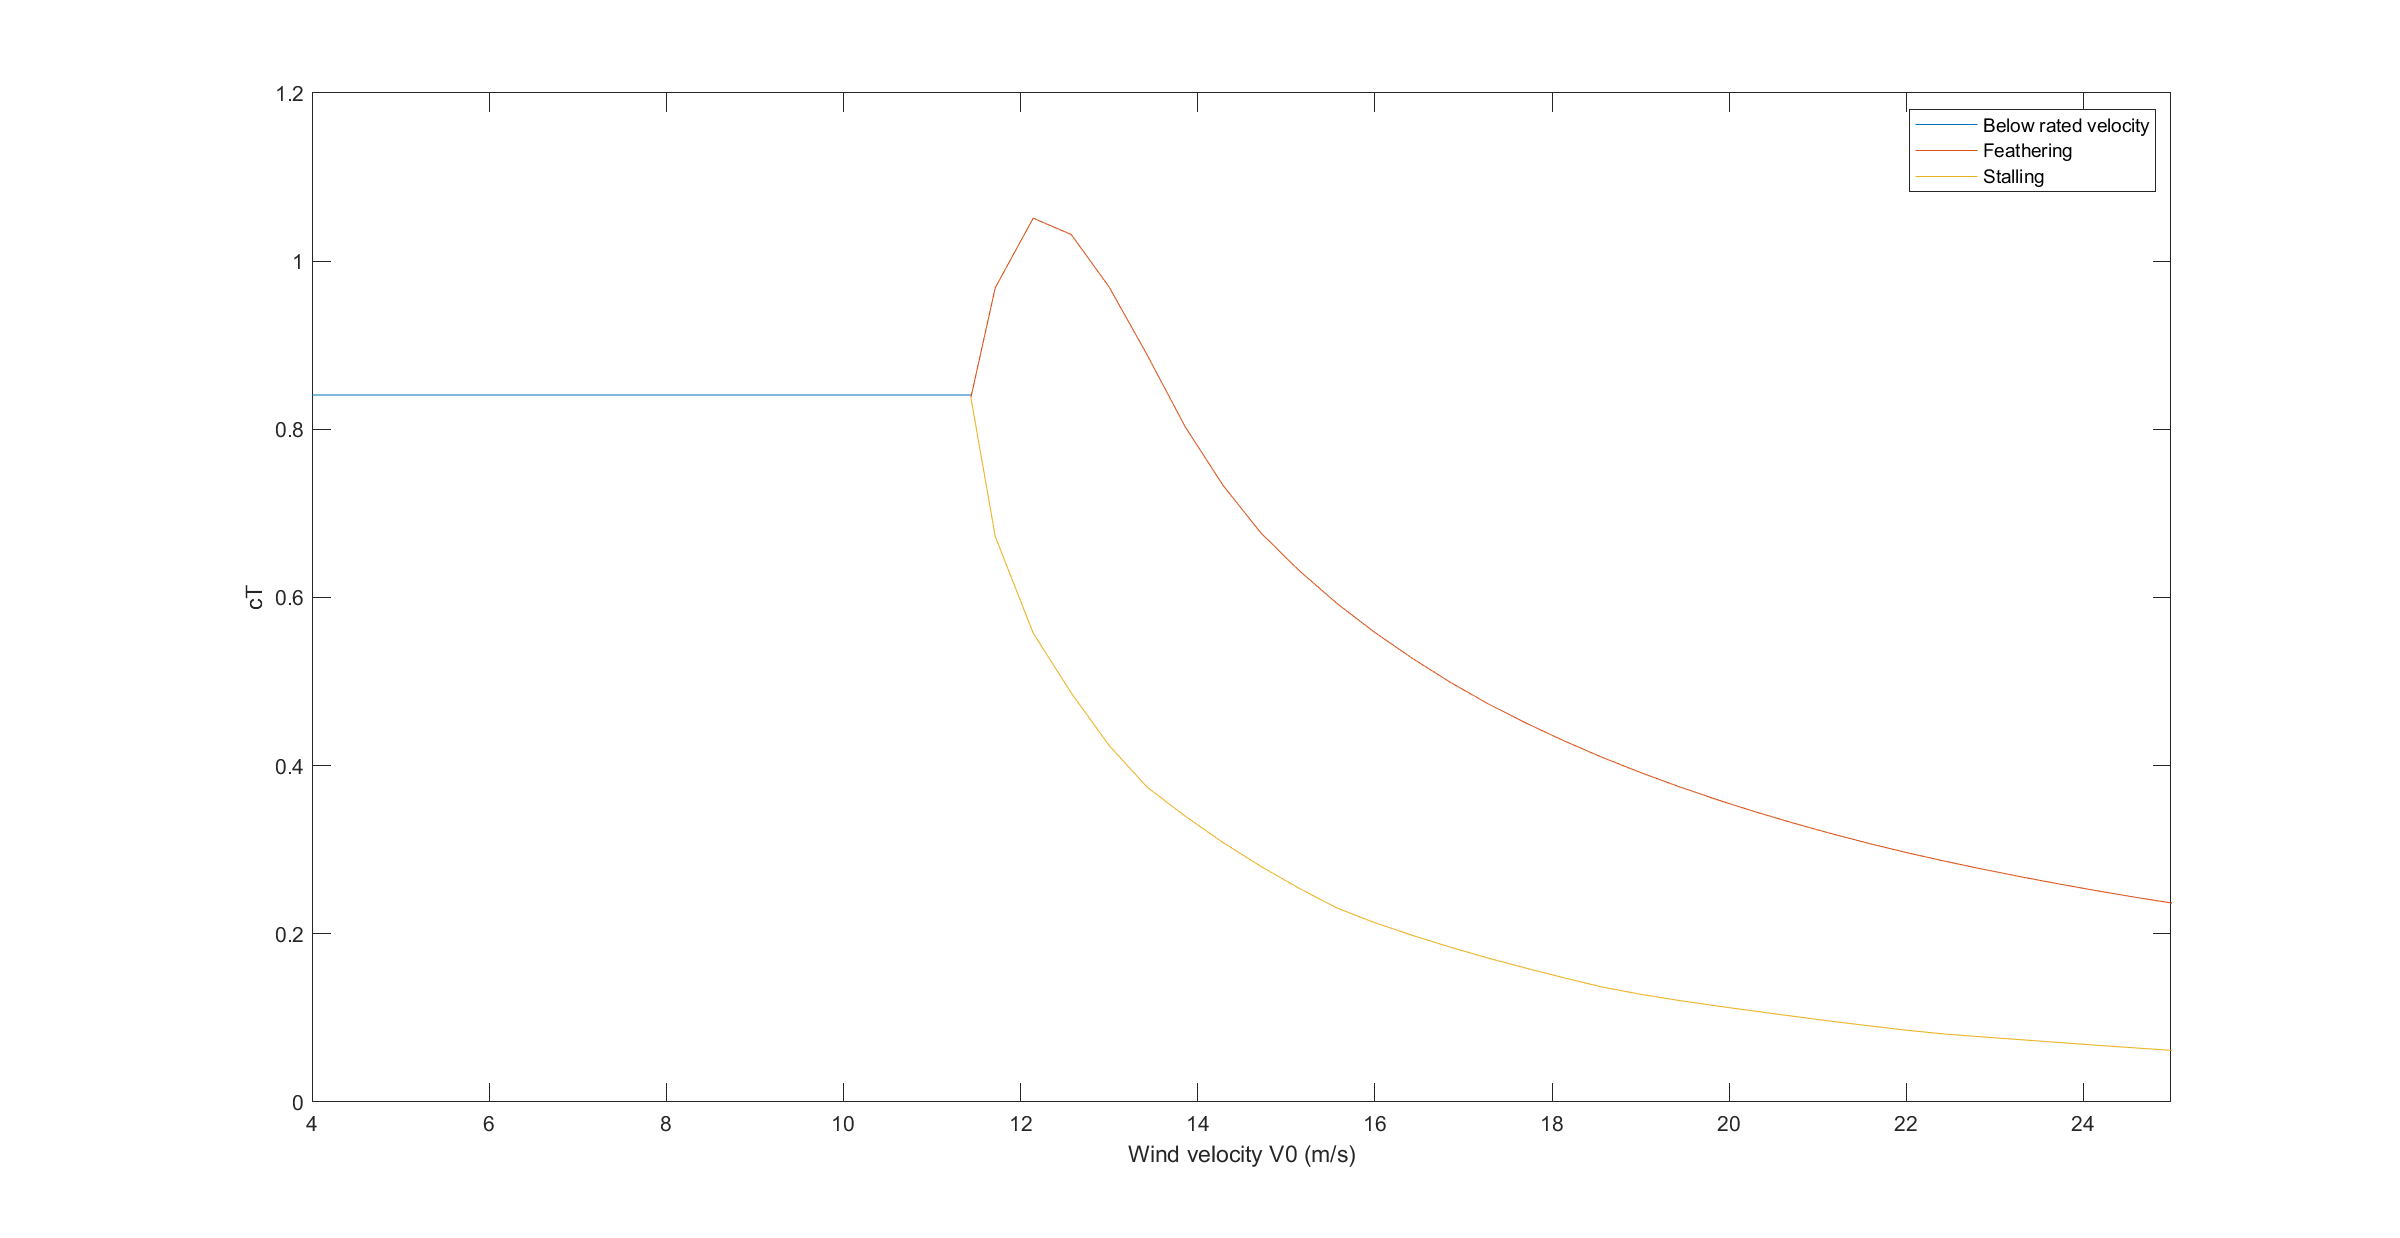
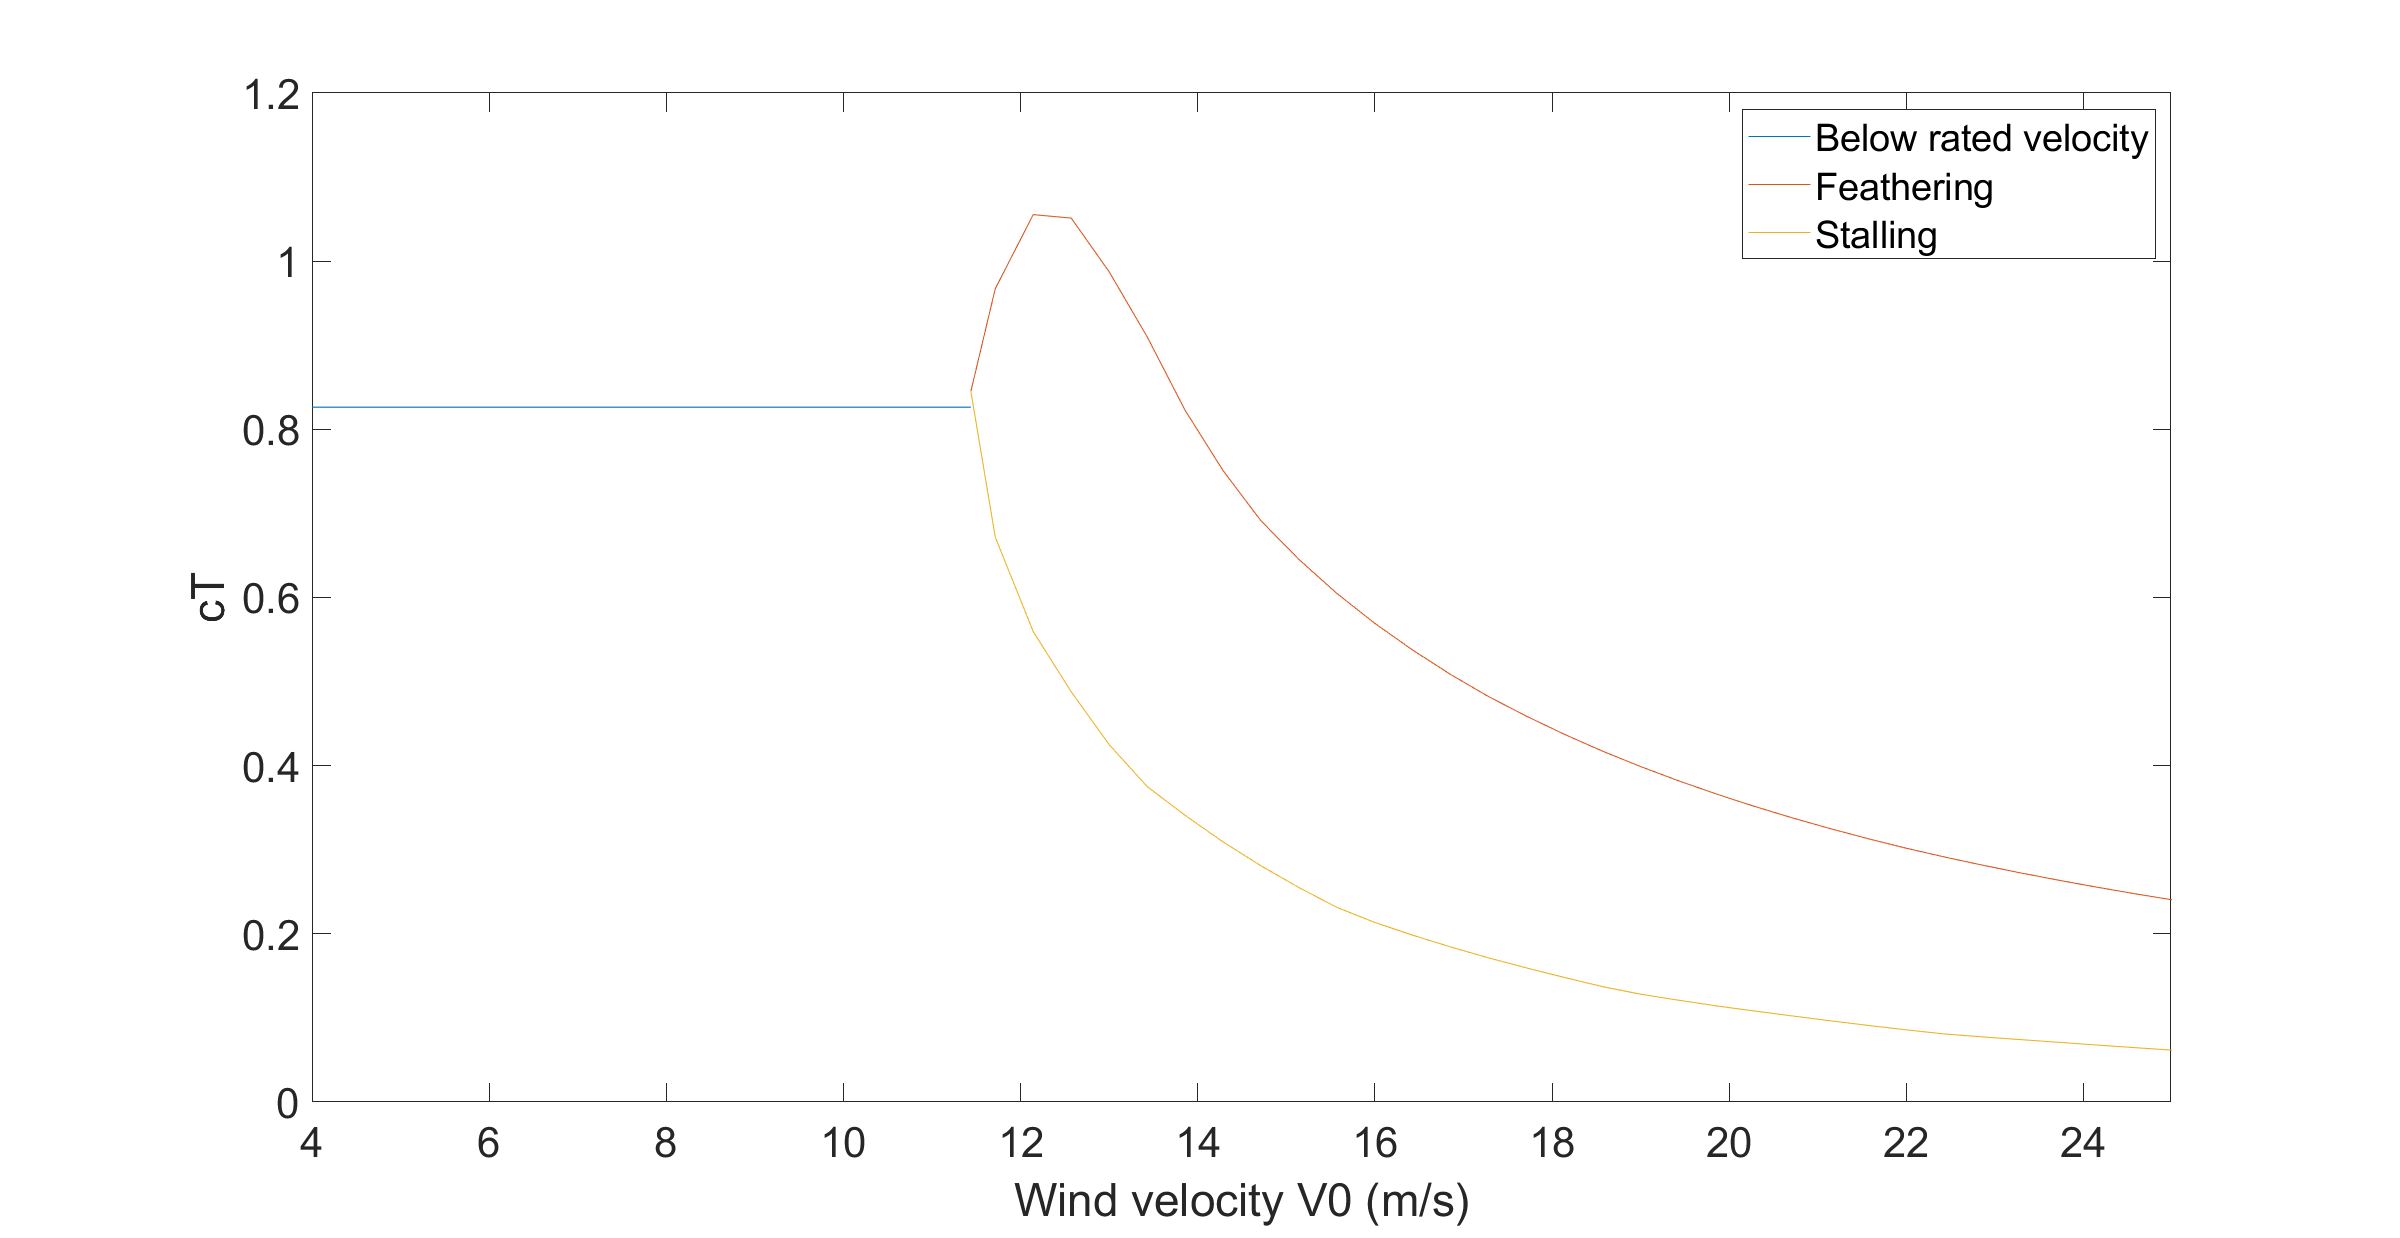
increas font size, add dot on the plot on the maximum cP

diff --git a/assignment_1/src/main.m b/assignment_1/src/main.m
@@ -158,7 +158,11 @@ saveas(cT_vs_lambda, 'C:\Users\Niccolò\Documents\UNIVERSITA\5° ANNO\WIND_ENERG
 
 % contour plot
 contour_plot_cP = figure('Position', get(0, 'Screensize'));
-contourf(lambda_vector, rad2deg(pitch_vector), contour_mat_cP);
+contourf(lambda_vector, rad2deg(pitch_vector), contour_mat_cP); % To display value on the plot use ,'ShowText','on'
+hold on
+plot(lambda_opt, Theta_p_opt, 'r.', 'MarkerSize',30)
+text(7.9, 0, num2str(cp_max), 'Color','r', 'FontSize', font_size)
+hold off
 colorbar()
 xlabel('\lambda')
 ylabel('\Theta_p (°)')
@@ -194,9 +198,9 @@ V0_vector = [V0_cutin: V0_step: V0_rated];
 omega_plot = lambda_opt / R * V0_vector;
 
 omega_vs_V0 = figure('Position', get(0, 'Screensize'));
-plot(V0_vector, omega_plot);
+plot(V0_vector, omega_plot,, 'LineWidth', line_width);
 hold on
-plot([V0_rated V0_cut_out], [omega_max omega_max])
+plot([V0_rated V0_cut_out], [omega_max omega_max],, 'LineWidth', line_width)
 hold off
 xlabel("Wind velocity (m/s)")
 ylabel("\omega (rad/s)")
@@ -319,10 +323,10 @@ for v=1:V0_cut_in_out_item % loop over differnet velocities
 end
 
 pitch_vs_V0 = figure('Position', get(0, 'Screensize'));
-plot(Theta_p_limit(1,:), rad2deg(Theta_p_limit(2,:)))
+plot(Theta_p_limit(1,:), rad2deg(Theta_p_limit(2,:)),, 'LineWidth', line_width)
 hold on
-plot(Theta_p_limit(1,:), rad2deg(Theta_p_limit(3,:)))
-plot([0 V0_rated], [0 0], 'g--')
+plot(Theta_p_limit(1,:), rad2deg(Theta_p_limit(3,:)),, 'LineWidth', line_width)
+plot([0 V0_rated], [0 0], 'g--',, 'LineWidth', line_width)
 hold off
 xlabel('Wind speed (m/s)')
 ylabel('Pitch angle (°)')
@@ -334,9 +338,9 @@ saveas(pitch_vs_V0, 'C:\Users\Niccolò\Documents\UNIVERSITA\5° ANNO\WIND_ENERGY
 
 % comparison of our results with the one of DTU refernce turbine pag. 33
 pitch_vs_V0_reference_comparison = figure('Position', get(0, 'Screensize'));
-plot(Theta_p_limit(1,:), rad2deg(Theta_p_limit(3,:)))
+plot(Theta_p_limit(1,:), rad2deg(Theta_p_limit(3,:)),, 'LineWidth', line_width)
 hold on
-plot(velocity_reference, pitch_reference)
+plot(velocity_reference, pitch_reference,, 'LineWidth', line_width)
 hold off
 xlabel('Wind speed (m/s)')
 ylabel('Pitch angle (°)')
@@ -465,8 +469,8 @@ V0_lower(end + 1) = V0_rated;
 P_vs_V0 = figure('Position', get(0, 'Screensize'));
 plot(V0_lower, P_lower);
 hold on
-plot(V0_upper, P_feat)
-plot(V0_upper, P_stall)
+plot(V0_upper, P_feat,, 'LineWidth', line_width)
+plot(V0_upper, P_stall,, 'LineWidth', line_width)
 hold off
 xlabel('Wind velocity V0 (m/s)')
 ylabel('Power (W)')
@@ -478,10 +482,10 @@ saveas(P_vs_V0, 'C:\Users\Niccolò\Documents\UNIVERSITA\5° ANNO\WIND_ENERGY\ass
 
 
 T_vs_V0 = figure('Position', get(0, 'Screensize'));
-plot(V0_lower, T_lower);
+plot(V0_lower, T_lower,, 'LineWidth', line_width);
 hold on
-plot(V0_upper, T_feat);
-plot(V0_upper, T_stall);
+plot(V0_upper, T_feat,, 'LineWidth', line_width);
+plot(V0_upper, T_stall,, 'LineWidth', line_width);
 hold off
 xlabel('Wind velocity V0 (m/s)')
 ylabel('Thrust (N)')
@@ -492,10 +496,10 @@ ax.FontSize = font_size;
 saveas(T_vs_V0, 'C:\Users\Niccolò\Documents\UNIVERSITA\5° ANNO\WIND_ENERGY\assignment_1\figures\T_vs_V0.png','png');
 
 cP_vs_V0 = figure('Position', get(0, 'Screensize'));
-plot(V0_lower, cP_lower);
+plot(V0_lower, cP_lower,, 'LineWidth', line_width);
 hold on
-plot(V0_upper, cP_feat);
-plot(V0_upper, cP_stall);
+plot(V0_upper, cP_feat,, 'LineWidth', line_width);
+plot(V0_upper, cP_stall,, 'LineWidth', line_width);
 hold off
 xlabel('Wind velocity V0 (m/s)')
 ylabel('cP')
@@ -506,10 +510,10 @@ ax.FontSize = font_size;
 saveas(cP_vs_V0, 'C:\Users\Niccolò\Documents\UNIVERSITA\5° ANNO\WIND_ENERGY\assignment_1\figures\cP_vs_V0.png','png');
 
 cT_vs_V0 = figure('Position', get(0, 'Screensize'));
-plot(V0_lower, cT_lower);
+plot(V0_lower, cT_lower,, 'LineWidth', line_width);
 hold on
-plot(V0_upper, cT_feat)
-plot(V0_upper, cT_stall)
+plot(V0_upper, cT_feat,, 'LineWidth', line_width)
+plot(V0_upper, cT_stall,, 'LineWidth', line_width)
 xlabel('Wind velocity V0 (m/s)')
 ylabel('cT')
 legend('Below rated velocity', 'Feathering', 'Stalling')
@@ -542,7 +546,7 @@ for i=1:size(V0_weibull, 2)
 end
 
 weibull_plot = figure('Position', get(0, 'Screensize'));
-plot(V0_weibull, weibull) 
+plot(V0_weibull, weibull,, 'LineWidth', line_width) 
 xlabel('Wind speed (m/s)')
 ylabel('Weibull PDF')
 title('Weibull pdf as function of the wind velocity')

diff --git a/assignment_1/src/parameters.m b/assignment_1/src/parameters.m
@@ -1,6 +1,7 @@
 %% PARAMETERS
 
-font_size = 10;
+font_size = 20; % font szie for plots
+line_width = 2; % line width for plots
 
 i_max = 300;  % maximum number of accepted iterations
 fake_zero = 1e-8; % thershold for exiting the loop
@@ -15,10 +16,10 @@ P_rated = 10.64e6; % rated power (W)
 
 lambda_range = [5 10]; % range in within look for optimal lambda
 pitch_range = [deg2rad(-2) deg2rad(5)]; % range in within look for optimal picth angle
-lambda_item = 10; % number of divisions of lambda range
-pitch_item = 10; % number of divisions of pitch range
+lambda_item = 15; % number of divisions of lambda range (initially it was 10)
+pitch_item = 15 ; % number of divisions of pitch range (initially it was 10)
 
-V0_item = 20; % number of divison for the omega plot in Q2
+V0_item = 25; % number of divison for the omega plot in Q2
 V0_cut_in_out_item = 50; % number of division for velocity vector in Q3
 pitch_item_e3 = 10; % number of division for the pitch in Q3
 pitch_range_e3 = [-0.22 0.42];  % (rad) range in within look for picth angle 
